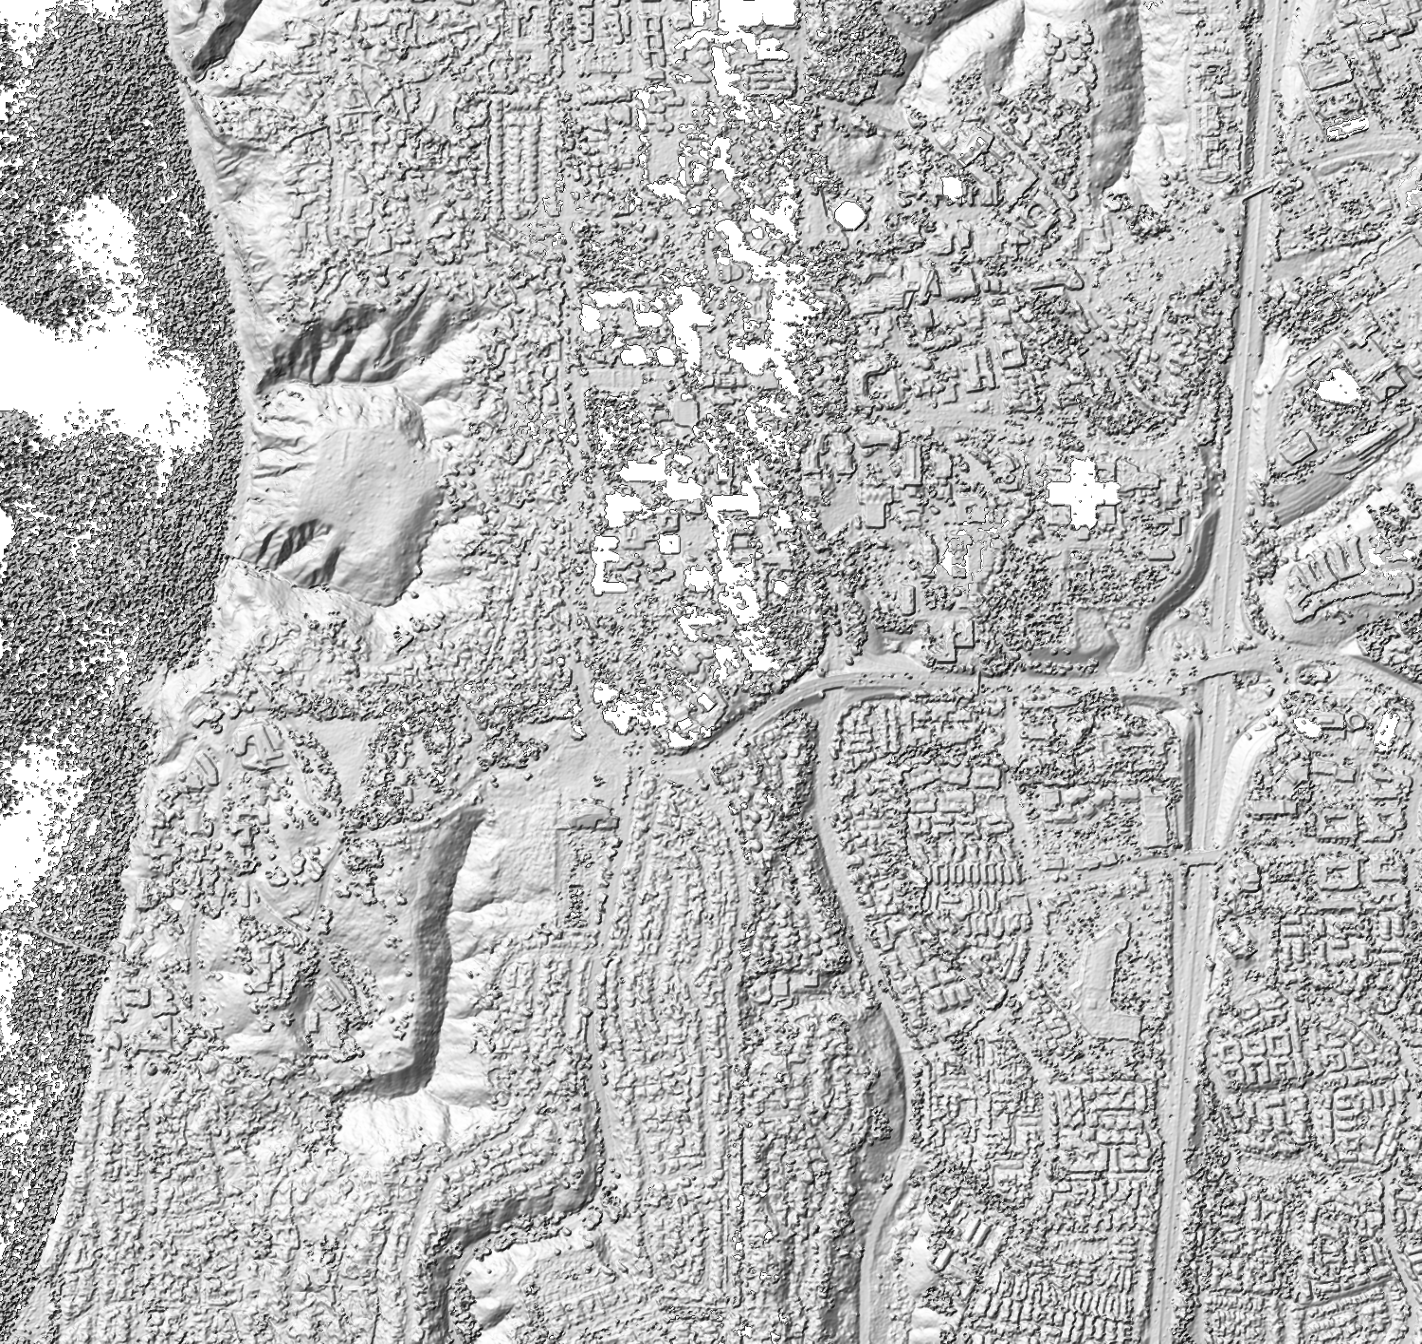
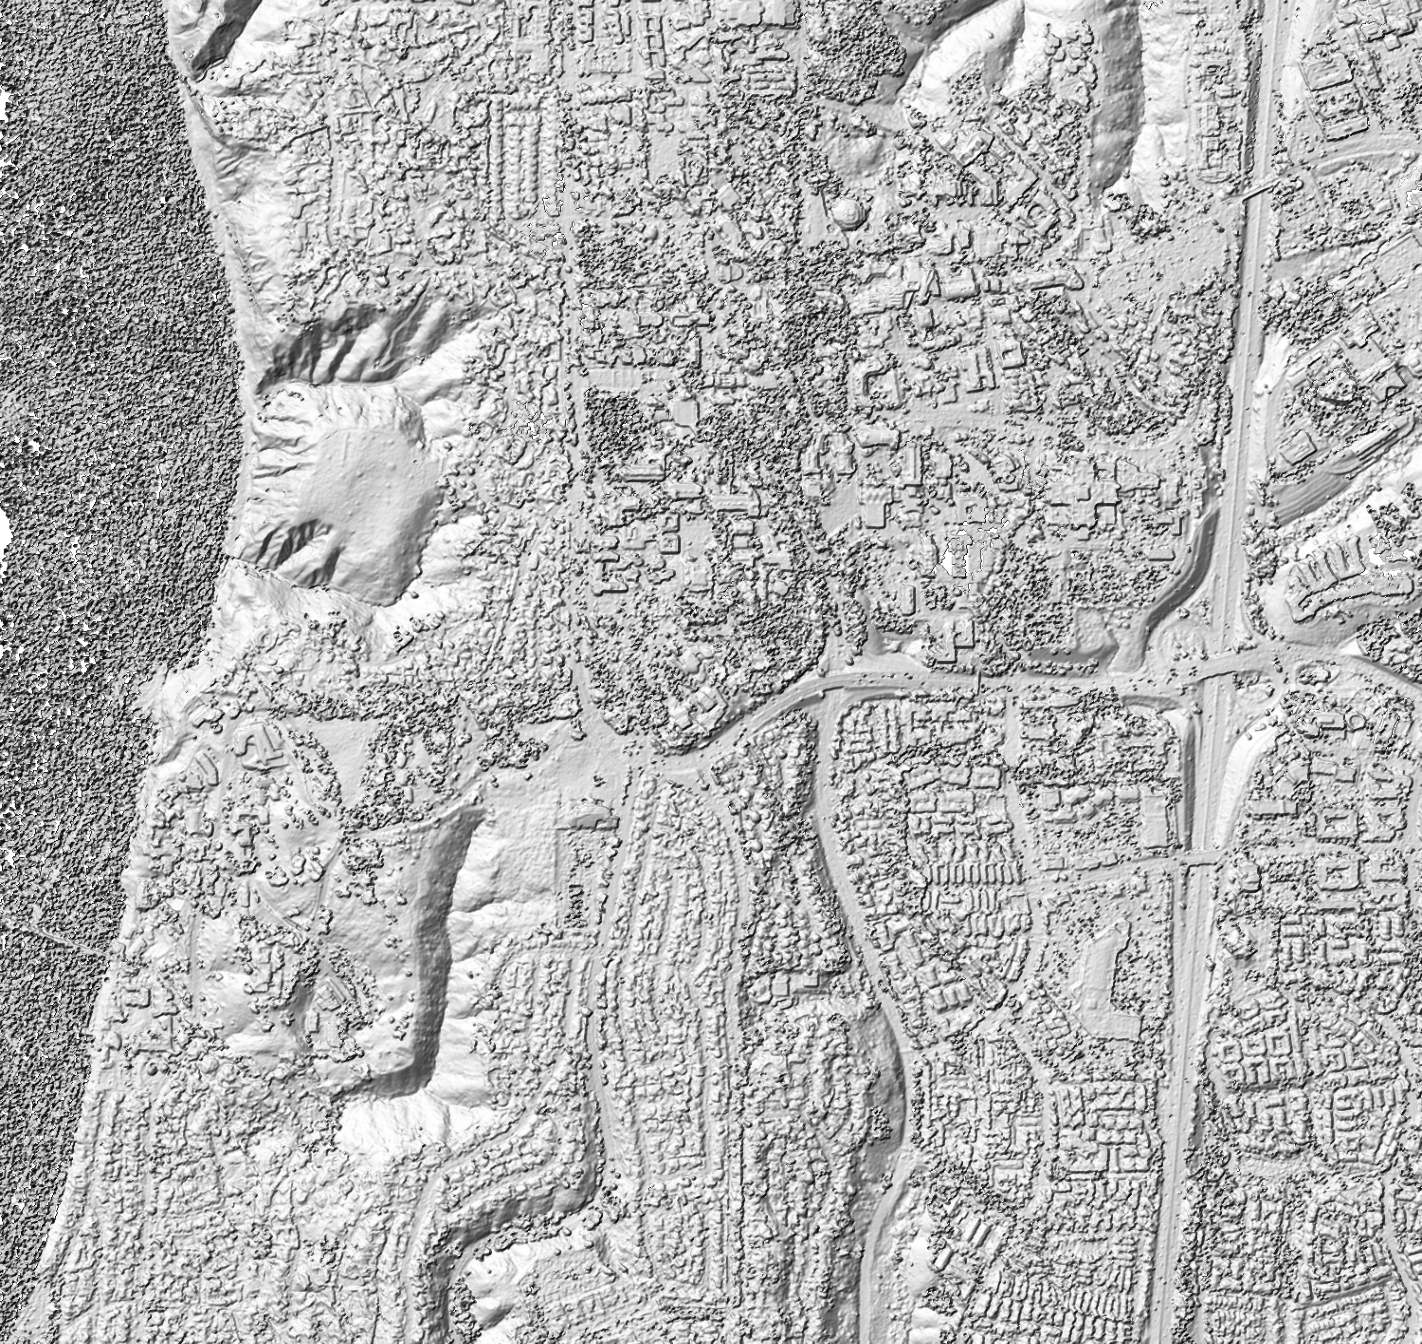
CARS hillshade: drop outlier clipping
The prior hillshade rendering clipped the reprojected CARS DSM to
the 2.5-97.5 percentile before shading, which blanked ~27k pixels
in the central frame (tall buildings legitimately above the clip
ceiling). The result was an artificial speckle of voids over the
campus.

Now render from the raw reprojected DSM without any percentile clip
(99% valid). The void-free central area matches what
ucsd_stereo_CARS/output/results/dsm/dsm_hillshade.tif shows in
QGIS directly from the native DSM.

diff --git a/docs/comparisons/cars.md b/docs/comparisons/cars.md
@@ -140,7 +140,7 @@ CARS is much slower than SETSM on this laptop (17 h vs 20 min), primarily becaus
 :::
 ::::
 
-CARS resolves the urban structure cleanly — buildings, streets, the I-5 freeway on the east, Mount Soledad terrain on the west — comparable to ASP in detail. Some speckle remains in low-matching-confidence zones (coastal edge, vegetation canopies). No tile-boundary artifacts.
+CARS resolves the urban structure cleanly — buildings, streets, the I-5 freeway on the east, Mount Soledad terrain on the west — comparable to ASP in detail. Some speckle remains along the seaward edge where CARS' ROI extends beyond the stereo overlap. No tile-boundary artifacts.
 
 ## References
 